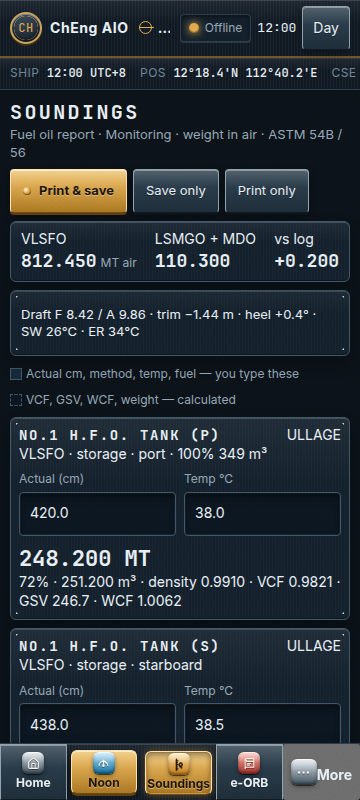
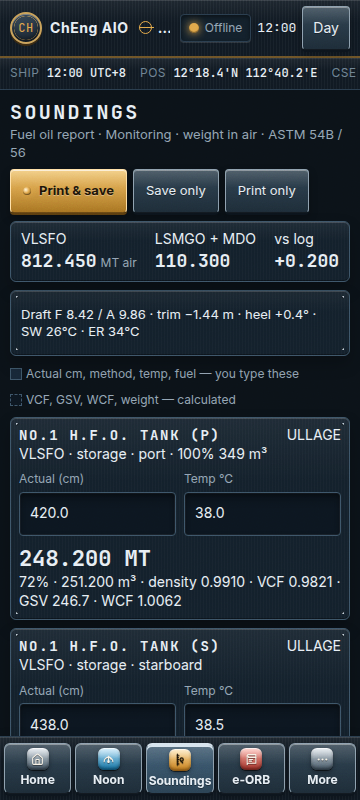
Give the phone bottom bar one plate for every item.
Home, Noon, Soundings, e-ORB and More share the same colour, size and label. Colour stays on the icons. The current page uses the same brighter plate and top line in both themes.

Changed region(s): [[0.0, 0.9062, 1.0, 1.0]]

diff --git a/docs/redesign-mockups/station.css b/docs/redesign-mockups/station.css
@@ -231,9 +231,7 @@ body.clean .mockbar { display: none; }
   font-size: 12px;
   background: var(--panel);
 }
-.chips a.primary, .chips a.active {
-  border-color: var(--amber);
-  background: var(--amber-dim);
+.chips a.active {
   color: var(--text);
 }
 
@@ -340,9 +338,7 @@ body.clean .mockbar { display: none; }
   font-size: 12px;
   border-top: 2px solid transparent;
 }
-.dock a strong { font-weight: 650; font-size: 12px; color: var(--text); }
-.dock a.active { color: var(--text); border-top-color: var(--amber); background: var(--amber-dim); }
-.dock a.main strong { color: var(--amber); }
+.dock a strong, .dock button strong { font-weight: 650; font-size: 12px; color: var(--text); }
 
 .sheet {
   position: fixed;
@@ -979,7 +975,7 @@ html[data-theme="day"] .unit::after {
     0 4px 8px rgba(0, 0, 0, 0.28);
   text-shadow: 0 1px 0 rgba(0, 0, 0, 0.35);
 }
-.btn.primary, .actions-2 .btn.primary, .dock a.main, .chips a.primary {
+.btn.primary, .actions-2 .btn.primary {
   color: #1c1408;
   text-shadow: 0 1px 0 rgba(255, 255, 255, 0.35);
   border-color: #ffe1a8;
@@ -994,7 +990,7 @@ html[data-theme="day"] .unit::after {
   transform: translateY(1px);
   box-shadow: inset 0 3px 6px rgba(0, 0, 0, 0.45), 0 1px 0 #0c141c;
 }
-.btn.on, .btn.primary.on, .nav-btn.active, .mod-tab.active, .dock a.active, .steps-head button.on, .chips a.active {
+.btn.on, .btn.primary.on, .nav-btn.active, .mod-tab.active, .steps-head button.on {
   transform: translateY(1px);
   box-shadow:
     inset 0 3px 6px rgba(0, 0, 0, 0.45),
@@ -1011,12 +1007,6 @@ html[data-theme="day"] .unit::after {
   box-shadow: 0 0 6px rgba(226, 168, 74, 0.85), inset 0 -1px 1px rgba(0, 0, 0, 0.4);
   flex: none;
 }
-.dock a.main {
-  margin: 6px 4px;
-  border-radius: 6px;
-  min-height: 44px;
-}
-.dock a.main strong { color: #1c1408; }
 .ico {
   width: 26px;
   height: 26px;
@@ -1052,8 +1042,8 @@ html[data-theme="day"] .unit::after {
 .ico-lube { --hi: #ffe7a0; --ico: #c6a020; }
 .ico-water { --hi: #c5ecff; --ico: #17648e; }
 .ico-sea { --hi: #b7efe8; --ico: #0c6a64; }
-.dock a .ico { width: 22px; height: 22px; }
-.dock a .ico svg { width: 13px; height: 13px; }
+.dock a .ico, .dock button .ico { width: 22px; height: 22px; }
+.dock a .ico svg, .dock button .ico svg { width: 13px; height: 13px; }
 .mod-tab .ico { width: 18px; height: 18px; border-radius: 4px; }
 .mod-tab .ico svg { width: 11px; height: 11px; }
 html[data-theme="day"] .ico {
@@ -1241,10 +1231,116 @@ body.phone-dash .phone-deck {
 
 html[data-theme="day"] .btn,
 html[data-theme="day"] .theme-btn,
-html[data-theme="day"] .nav-btn,
-html[data-theme="day"] .dock a:not(.main) {
+html[data-theme="day"] .nav-btn {
   background-color: #efe6d4;
   color: var(--text);
   text-shadow: none;
   border-color: #b7a88e;
+}
+
+/* Phone and tablet bottom bar, and the short-landscape chips that replace it.
+   One plate for every item. Colour stays on the icon. The current page is a
+   brighter plate with the same light line, in both themes. */
+.dock {
+  gap: 4px;
+  padding: 6px 4px calc(6px + env(safe-area-inset-bottom, 0px));
+}
+.dock a,
+.dock button {
+  flex: 1 1 0;
+  min-width: 0;
+  min-height: 48px;
+  margin: 0;
+  padding: 4px 2px;
+  border-radius: 6px;
+  display: flex;
+  flex-direction: column;
+  align-items: center;
+  justify-content: center;
+  gap: 2px;
+  appearance: none;
+  font: inherit;
+  font-size: 12px;
+  color: var(--text);
+  text-shadow: 0 1px 0 rgba(0, 0, 0, 0.35);
+  border: 1px solid #8ea0ae;
+  border-bottom-color: #121920;
+  background-color: #243644;
+  background-image: linear-gradient(180deg, rgba(255, 255, 255, 0.2), rgba(255, 255, 255, 0.02) 42%, rgba(0, 0, 0, 0.18));
+  box-shadow:
+    inset 0 1px 0 rgba(255, 255, 255, 0.35),
+    0 2px 0 #0c141c,
+    0 3px 6px rgba(0, 0, 0, 0.28);
+}
+.dock a strong,
+.dock button strong {
+  color: var(--text);
+  text-shadow: 0 1px 0 rgba(0, 0, 0, 0.35);
+}
+.dock a.active,
+.dock button.active {
+  background-color: #345066;
+  border-top: 2px solid #d7e4ee;
+  box-shadow:
+    inset 0 2px 0 #d7e4ee,
+    inset 0 1px 0 rgba(255, 255, 255, 0.45),
+    0 2px 0 #0c141c,
+    0 3px 6px rgba(0, 0, 0, 0.28);
+}
+html[data-theme="day"] .dock a,
+html[data-theme="day"] .dock button {
+  background-color: #efe6d4;
+  color: #1c2430;
+  text-shadow: none;
+  border-color: #b7a88e;
+  border-bottom-color: #8a7a62;
+  box-shadow:
+    inset 0 1px 0 rgba(255, 255, 255, 0.75),
+    0 2px 0 #8a7a62,
+    0 3px 6px rgba(60, 40, 20, 0.16);
+}
+html[data-theme="day"] .dock a strong,
+html[data-theme="day"] .dock button strong {
+  color: #1c2430;
+  text-shadow: none;
+}
+html[data-theme="day"] .dock a.active,
+html[data-theme="day"] .dock button.active {
+  background-color: #f8f3e8;
+  border-top: 2px solid #3e4c58;
+  color: #1c2430;
+  box-shadow:
+    inset 0 2px 0 #3e4c58,
+    inset 0 1px 0 rgba(255, 255, 255, 0.85),
+    0 2px 0 #8a7a62,
+    0 3px 6px rgba(60, 40, 20, 0.16);
+}
+.chips a.active {
+  background-color: #345066;
+  border-bottom: 2px solid #d7e4ee;
+  box-shadow:
+    inset 0 -2px 0 #d7e4ee,
+    inset 0 1px 0 rgba(255, 255, 255, 0.35),
+    0 2px 0 #0c141c;
+}
+html[data-theme="day"] .chips a {
+  background-color: #efe6d4;
+  color: #1c2430;
+  text-shadow: none;
+  border-color: #b7a88e;
+  border-bottom-color: #8a7a62;
+  box-shadow:
+    inset 0 1px 0 rgba(255, 255, 255, 0.75),
+    0 2px 0 #8a7a62,
+    0 3px 6px rgba(60, 40, 20, 0.16);
+}
+html[data-theme="day"] .chips a.active {
+  background-color: #f8f3e8;
+  color: #1c2430;
+  border-color: #b7a88e;
+  border-bottom: 2px solid #3e4c58;
+  box-shadow:
+    inset 0 -2px 0 #3e4c58,
+    inset 0 1px 0 rgba(255, 255, 255, 0.75),
+    0 2px 0 #8a7a62;
 }

diff --git a/docs/redesign-mockups/station.js b/docs/redesign-mockups/station.js
@@ -267,7 +267,7 @@
       var forAttr = id === 'entry' || id === 'eorb' ? ' data-for="aio voyage"' : (id === 'fuel-report' ? ' data-for="aio tank"' : '');
       return '<' + tag + ' class="' + (cls || '') + (active ? ' active' : '') + '"' + hrefAttr + forAttr + '>' + ico(id) + '<strong>' + label + '</strong></' + tag + '>';
     }
-    return item('home', 'Home') + item('entry', 'Noon', 'main') + item('fuel-report', 'Soundings', 'main') + item('eorb', 'e-ORB', 'dock-eorb') + item('more', 'More');
+    return item('home', 'Home') + item('entry', 'Noon') + item('fuel-report', 'Soundings') + item('eorb', 'e-ORB', 'dock-eorb') + item('more', 'More');
   }
 
   function chipsHtml() {
@@ -277,7 +277,7 @@
       var forAttr = id === 'entry' ? ' data-for="aio voyage"' : (id === 'fuel-report' ? ' data-for="aio tank"' : '');
       return '<a class="' + (cls || '') + (active ? ' active' : '') + '" href="' + href(id) + '"' + forAttr + '>' + ico(id) + label + '</a>';
     }
-    return chip('entry', 'Noon', 'primary') + chip('fuel-report', 'Soundings', 'primary') + chip('home', 'Home') + '<a data-for="aio voyage" href="' + href('eorb') + '">' + ico('eorb') + 'e-ORB</a>' + '<a href="#" data-open-sheet>' + ico('more') + 'More</a>';
+    return chip('entry', 'Noon') + chip('fuel-report', 'Soundings') + chip('home', 'Home') + '<a data-for="aio voyage" href="' + href('eorb') + '">' + ico('eorb') + 'e-ORB</a>' + '<a href="#" data-open-sheet>' + ico('more') + 'More</a>';
   }
 
   function watchHtml() {

diff --git a/docs/redesign-mockups/README.md b/docs/redesign-mockups/README.md
@@ -10,7 +10,7 @@ The work is an engine-control-room console, not a flat consumer screen. A chief 
 
 Night is painted plate over blue-black steel (`#0b1218`). The ground carries a faint chart grid and a brushed-metal grain. Panels are raised: a light edge on top, a dark edge underneath, a soft drop shadow, and a rivet at each corner. Inputs sit in a recessed well, the way a meter window sits in a gauge. Day keeps the same consoles on chart paper (`#e6e0d2`), with a paper grain and a brown chart grid so the board stays readable in sun. Amber, teal and red are the lamp colours: caution, calculated, alarm. Fuel, distillate, lube and fresh water keep the pipe colours the suite already uses.
 
-Buttons are push-buttons. A rim, a highlight along the top edge, and a shadow under the button make them stand off the plate. Pressing one (or leaving it on) sinks it and lights a lamp: amber for the active control, green when a state is in date, red for the OWS alarm. On a phone, Noon and Soundings are solid brass console keys on the bottom bar and again as the two large keys at the top of Home. The offline pill is a lamp bezel, not a flat chip.
+Buttons are push-buttons. A rim, a highlight along the top edge, and a shadow under the button make them stand off the plate. Pressing one (or leaving it on) sinks it and lights a lamp: amber for the active control, green when a state is in date, red for the OWS alarm. On a phone or tablet the bottom bar is one plate. Home, Noon, Soundings, e-ORB and More share the same colour, size, depth and label. Only the icon differs. The current page is a slightly brighter plate with a light line along the top, the same mark whichever item is current. The two large keys at the top of Home stay brass. The offline pill is a lamp bezel, not a flat chip.
 
 The maritime marks are structural, not pictures. Section titles are stencil-style plate stamps (wide mono capitals, a brass rule). The ship name carries a small load-line disc. The watch strip gives course and a noon position. The voyage progress chart is a passage line on a faint grid: departure, arrival, miles run in brass, miles remaining dashed, and a small hull marker at the ship’s position. It is a chart symbol, not the old animated hull, waves and rain. Fuel on Home is a vertical gauge for each grade, in the pipe colour, with the opening ROB as a tick.
 
